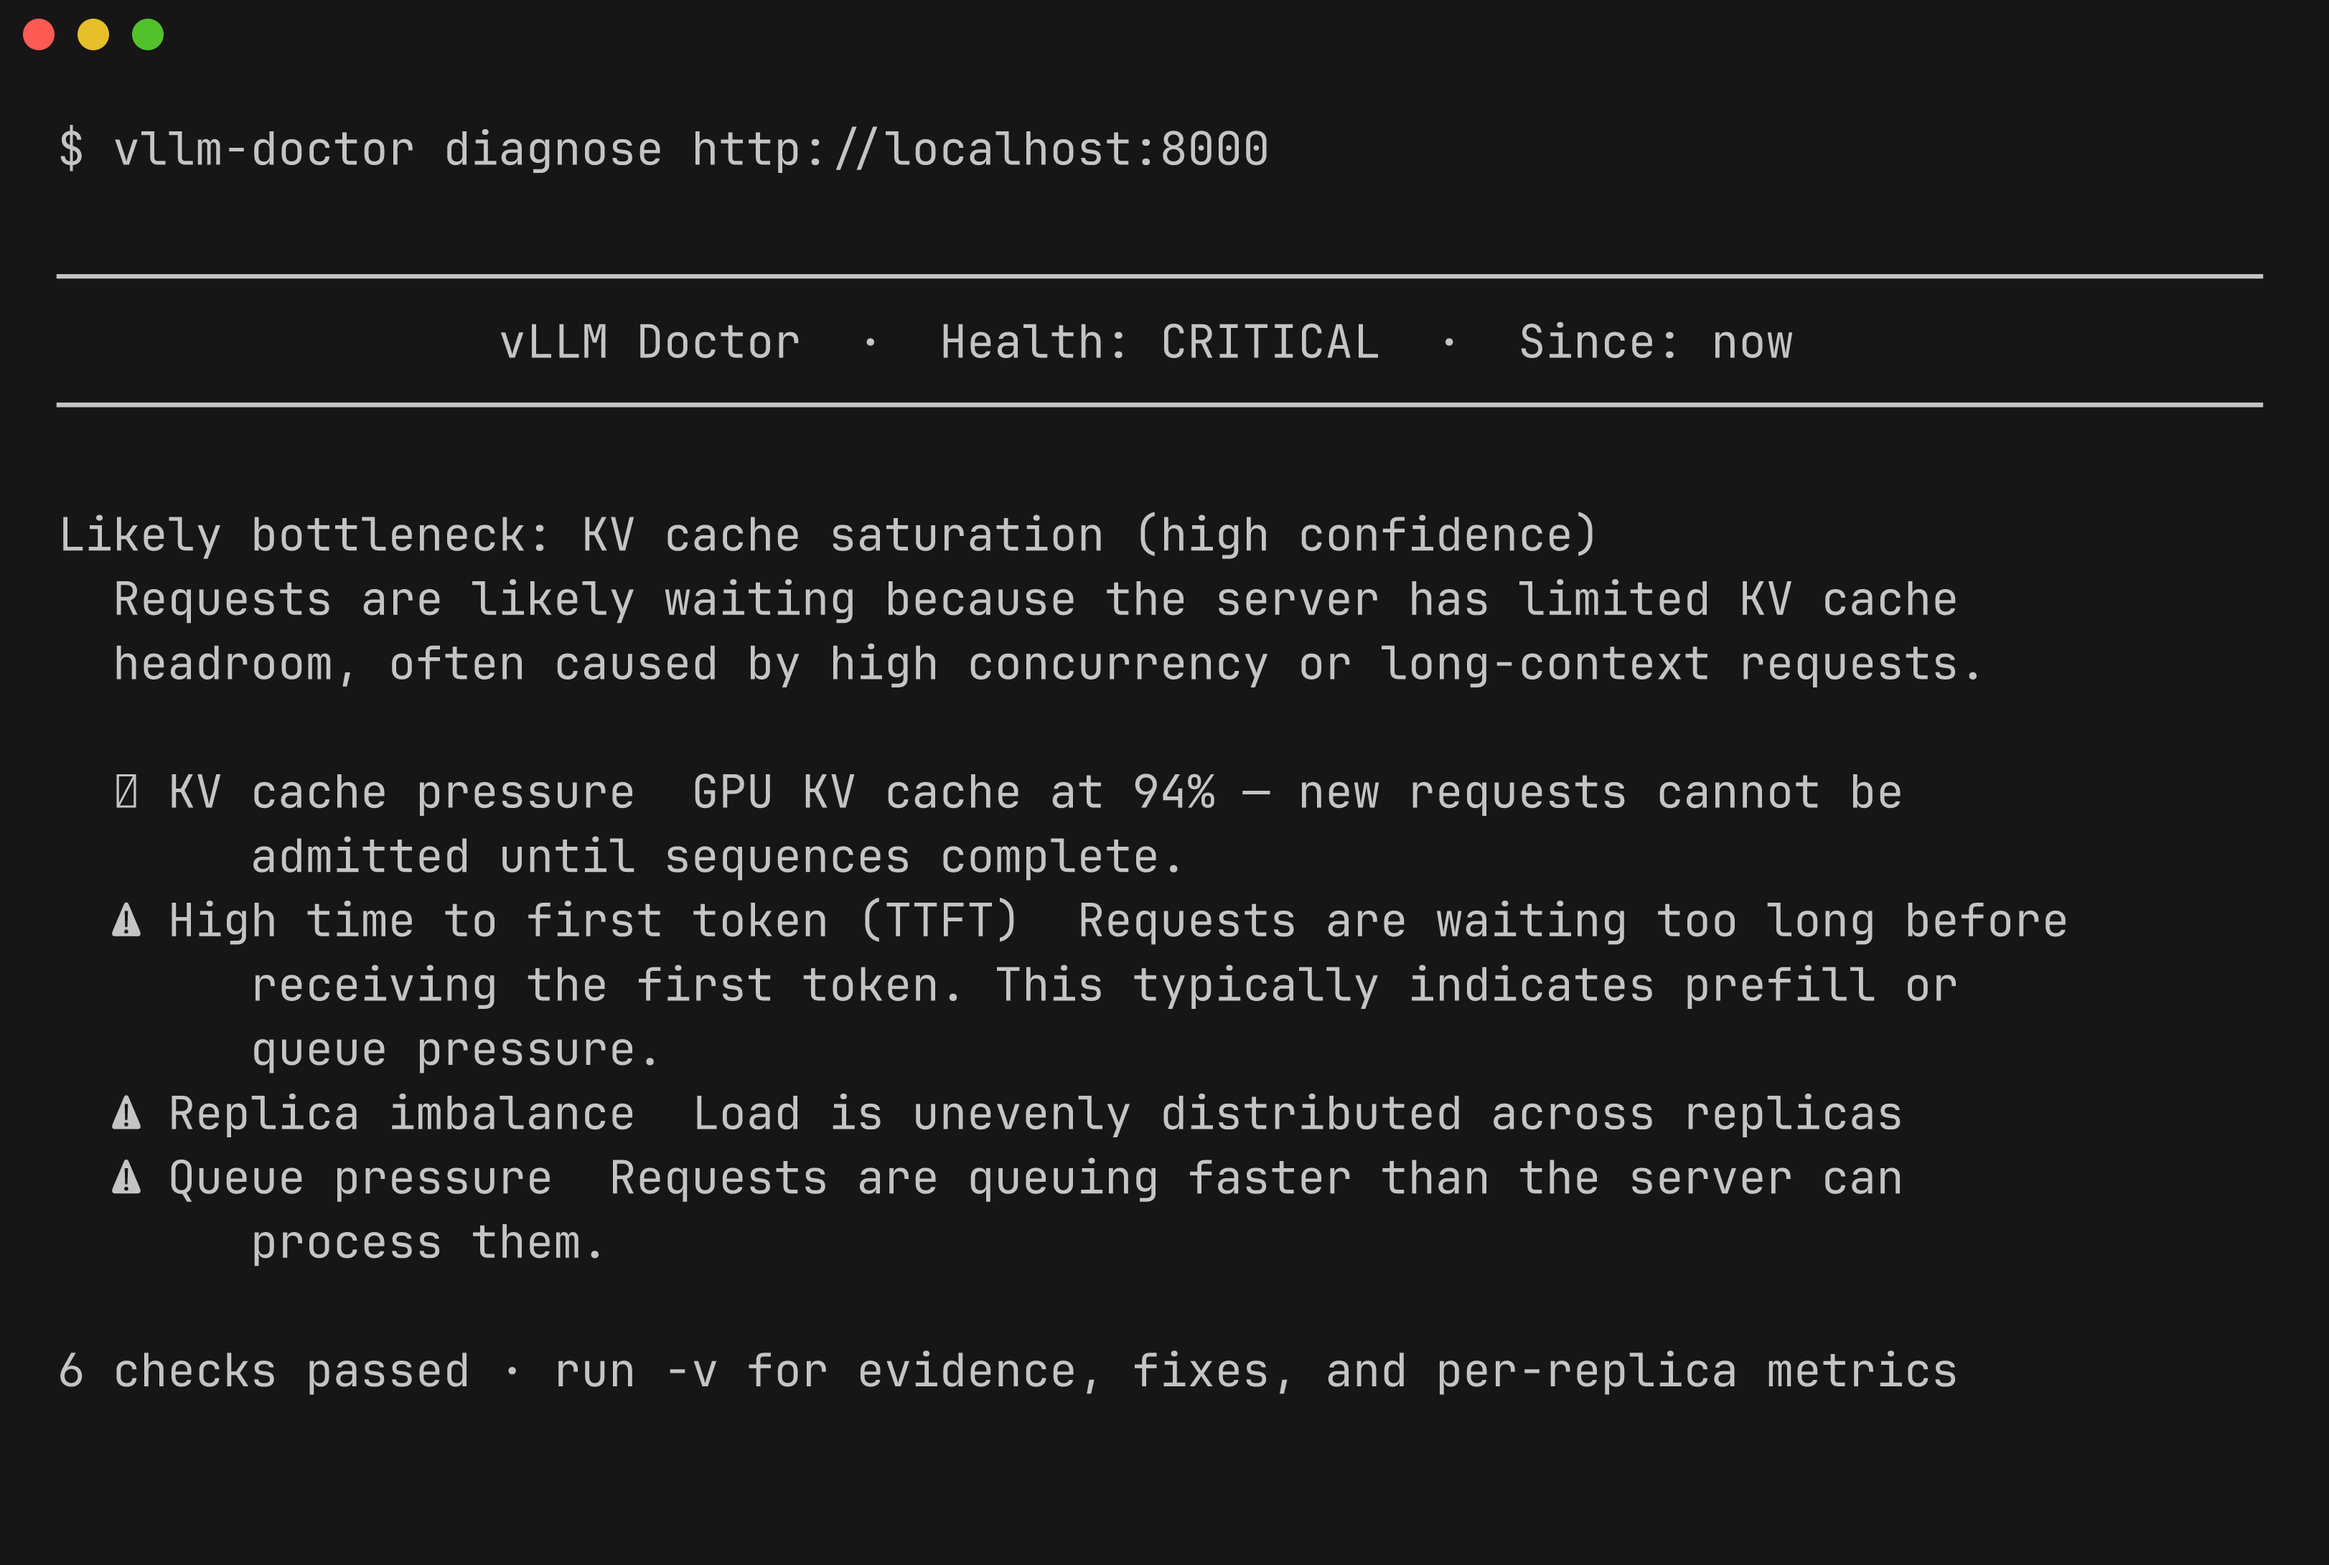
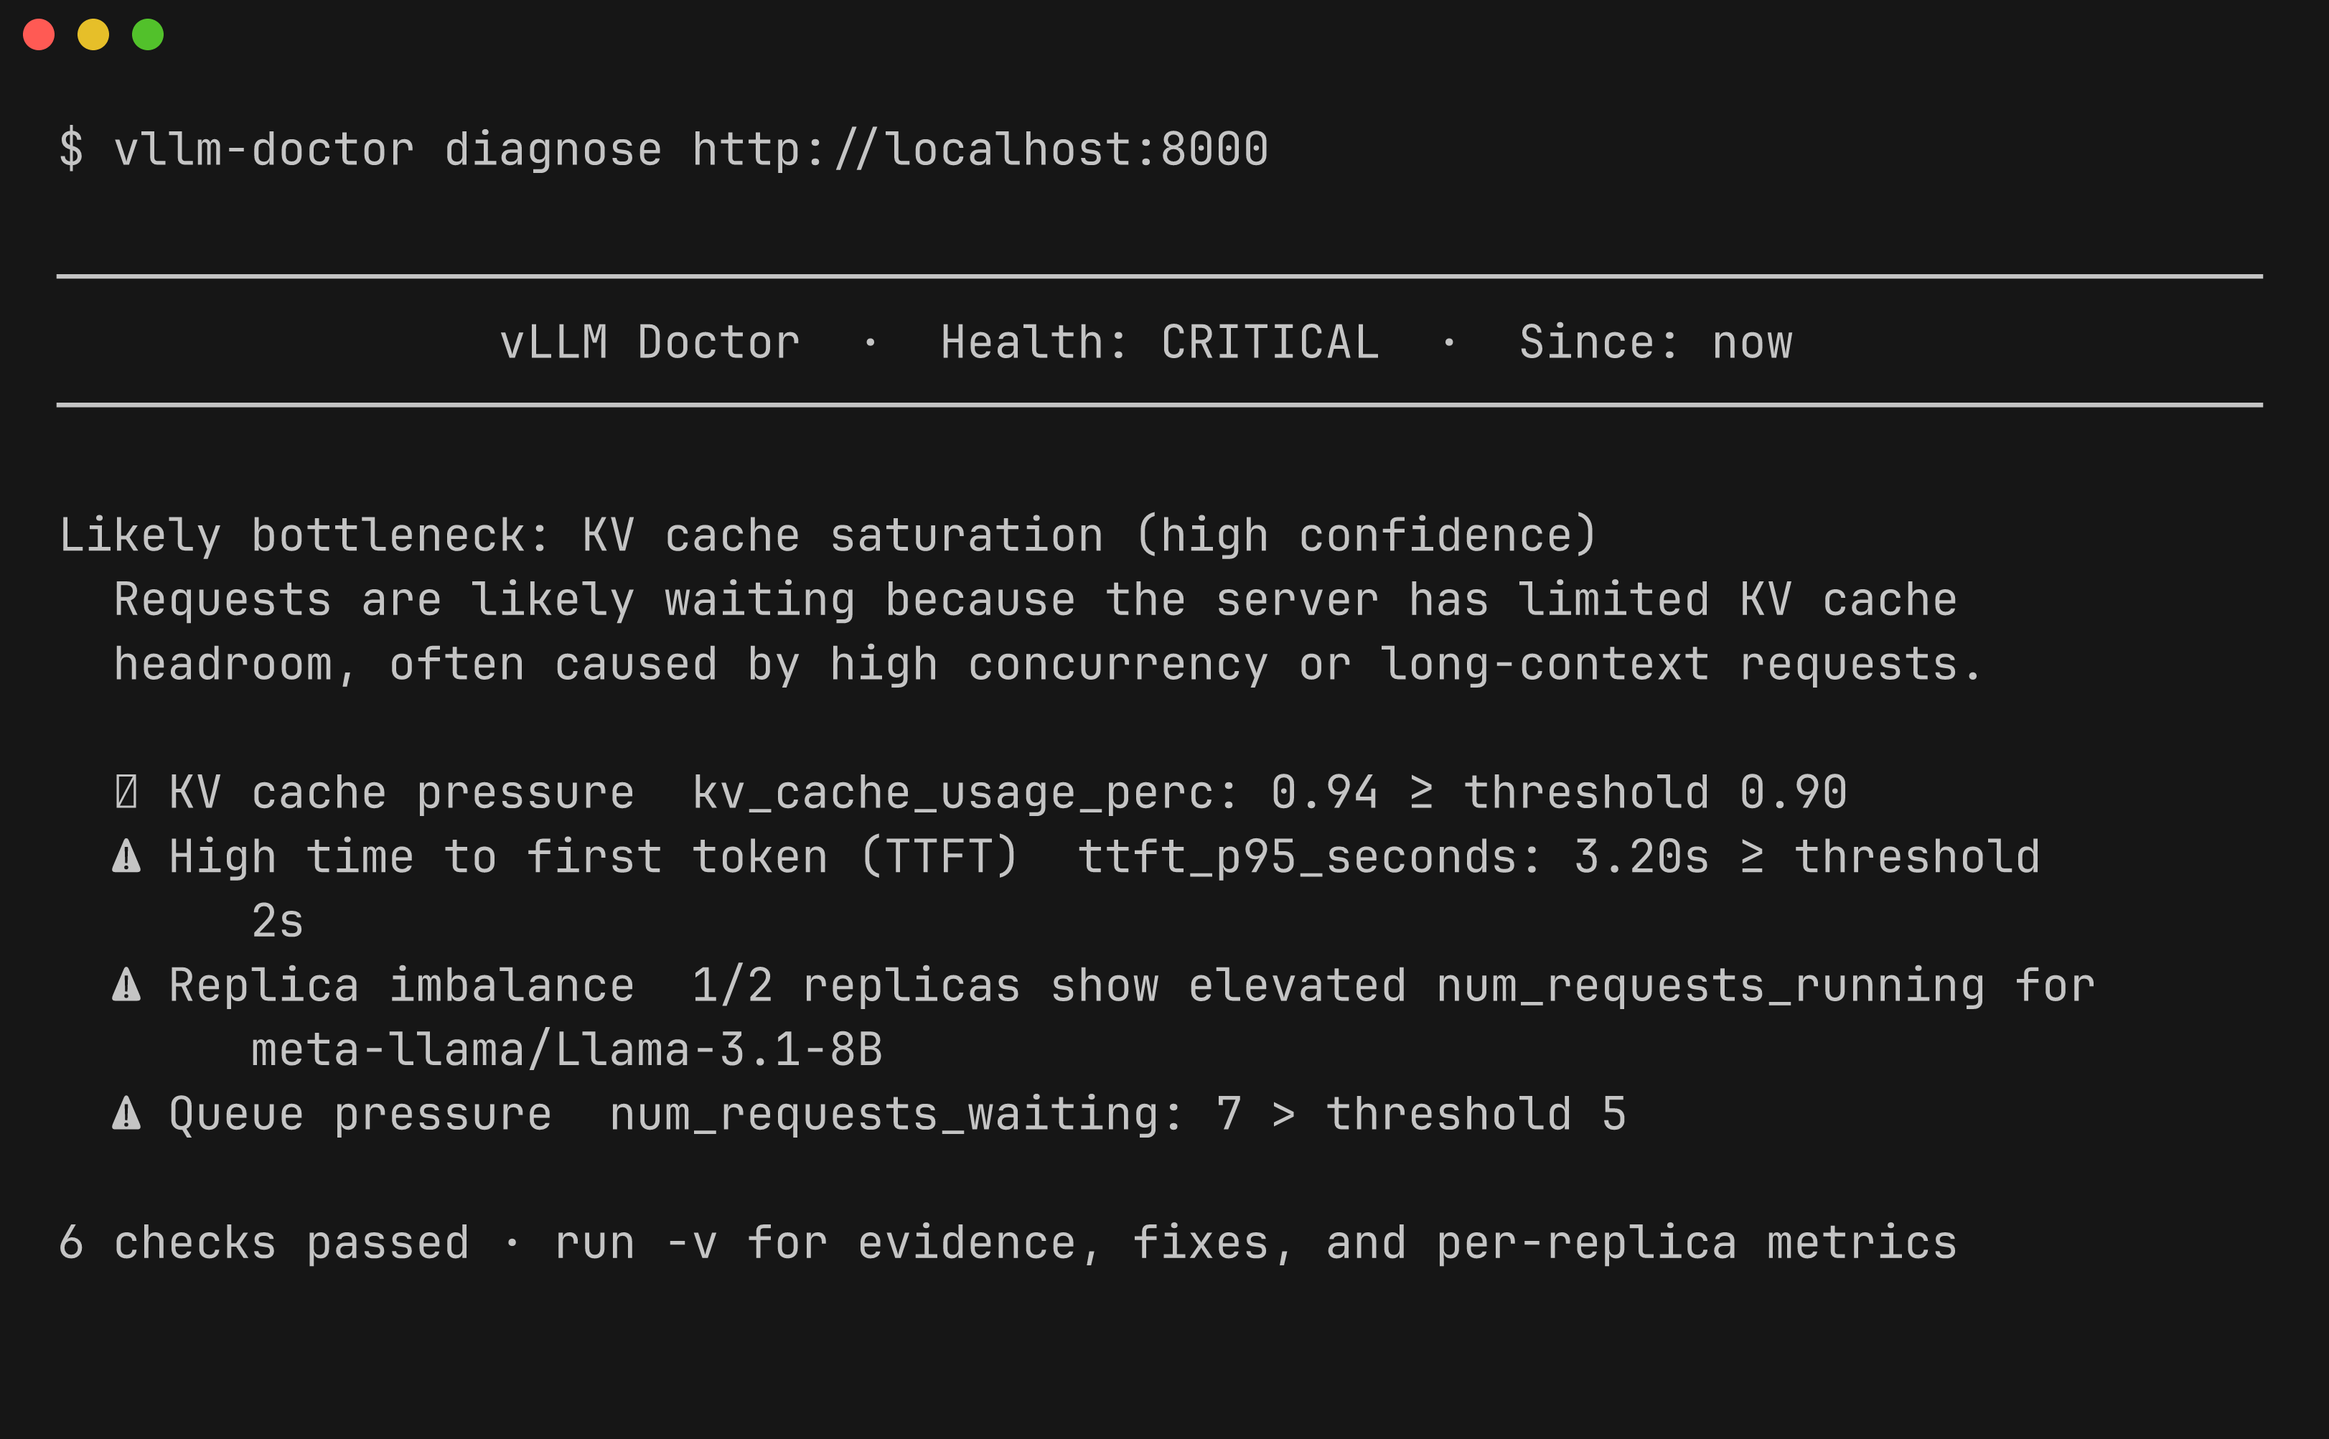
update docs

diff --git a/README.md b/README.md
@@ -102,14 +102,12 @@ Likely bottleneck: KV cache saturation (high confidence)
   Requests are likely waiting because the server has limited KV cache
   headroom, often caused by high concurrency or long-context requests.
 
-  ✖ KV cache pressure  GPU KV cache at 94% — new requests cannot be
-       admitted until sequences complete.
-  ⚠ High time to first token (TTFT)  Requests are waiting too long before
-       receiving the first token. This typically indicates prefill or
-       queue pressure.
-  ⚠ Replica imbalance  Load is unevenly distributed across replicas
-  ⚠ Queue pressure  Requests are queuing faster than the server can
-       process them.
+  ✖ KV cache pressure  kv_cache_usage_perc: 0.94 ≥ threshold 0.90
+  ⚠ High time to first token (TTFT)  ttft_p95_seconds: 3.20s ≥ threshold
+       2s
+  ⚠ Replica imbalance  1/2 replicas show elevated num_requests_running for
+       meta-llama/Llama-3.1-8B
+  ⚠ Queue pressure  num_requests_waiting: 7 > threshold 5
 
 6 checks passed · run -v for evidence, fixes, and per-replica metrics
 ```
@@ -131,8 +129,7 @@ Findings
 ╭──────────────────────────────────────────────────────────────────────────────╮
 │  ✖ KV cache pressure  [high]                                                 │
 │                                                                              │
-│  GPU KV cache usage: 94% (threshold: 90%)  ·  Waiting requests: 7 (blocked   │
-│  by full cache)                                                              │
+│  kv_cache_usage_perc: 0.94 ≥ threshold 0.90  ·  num_requests_waiting: 7      │
 │                                                                              │
 │  → Reduce max_num_seqs to limit concurrent sequences                         │
 │  → Reduce max_num_batched_tokens to cap memory per step                      │
@@ -142,7 +139,8 @@ Findings
 ╭──────────────────────────────────────────────────────────────────────────────╮
 │  ⚠ High time to first token (TTFT)  [high]                                   │
 │                                                                              │
-│  TTFT p95: 3.200s  ·  TPOT p95: 0.050s  ·  Waiting requests: 7               │
+│  ttft_p95_seconds: 3.20s ≥ threshold 2s  ·  tpot_p95_seconds: 0.05s  ·       │
+│  num_requests_waiting: 7                                                     │
 │                                                                              │
 │  → Enable or tune chunked prefill (--enable-chunked-prefill)                 │
 │  → Reduce max prompt length or filter long requests                          │
@@ -152,8 +150,10 @@ Findings
 ╭──────────────────────────────────────────────────────────────────────────────╮
 │  ⚠ Replica imbalance  [high]                                                 │
 │                                                                              │
-│  meta-llama/Llama-3.1-8B: running vllm-1=10 vs vllm-0=2; cache 94% vs 41%;   │
-│  waiting vllm-1=7 vs vllm-0=0                                                │
+│  1/2 replicas show elevated num_requests_running for meta-llama/Llama-3.1-   │
+│  8B  ·  1/2 replicas show elevated kv_cache_usage_perc for meta-             │
+│  llama/Llama-3.1-8B  ·  1/2 replicas show elevated num_requests_waiting for  │
+│  meta-llama/Llama-3.1-8B                                                     │
 │                                                                              │
 │  → Check the load balancer / service routing and session affinity settings   │
 │  → Verify readiness probes — an unready replica receives no traffic          │
@@ -163,7 +163,7 @@ Findings
 ╭──────────────────────────────────────────────────────────────────────────────╮
 │  ⚠ Queue pressure  [low]                                                     │
 │                                                                              │
-│  Waiting requests: 7 (threshold: 5)                                          │
+│  num_requests_waiting: 7 > threshold 5                                       │
 │                                                                              │
 │  → Add replicas or increase concurrency limits                               │
 │  → Inspect autoscaling thresholds                                            │

diff --git a/docs/index.md b/docs/index.md
@@ -105,8 +105,7 @@ Findings
 ╭──────────────────────────────────────────────────────────────────────────────╮
 │  ✖ KV cache pressure  [high]                                                 │
 │                                                                              │
-│  GPU KV cache usage: 94% (threshold: 90%)  ·  Waiting requests: 7 (blocked   │
-│  by full cache)                                                              │
+│  kv_cache_usage_perc: 0.94 ≥ threshold 0.90  ·  num_requests_waiting: 7      │
 │                                                                              │
 │  → Reduce max_num_seqs to limit concurrent sequences                         │
 │  → Reduce max_num_batched_tokens to cap memory per step                      │
@@ -116,7 +115,8 @@ Findings
 ╭──────────────────────────────────────────────────────────────────────────────╮
 │  ⚠ High time to first token (TTFT)  [high]                                   │
 │                                                                              │
-│  TTFT p95: 3.200s  ·  TPOT p95: 0.050s  ·  Waiting requests: 7               │
+│  ttft_p95_seconds: 3.20s ≥ threshold 2s  ·  tpot_p95_seconds: 0.05s  ·       │
+│  num_requests_waiting: 7                                                     │
 │                                                                              │
 │  → Enable or tune chunked prefill (--enable-chunked-prefill)                 │
 │  → Reduce max prompt length or filter long requests                          │
@@ -126,8 +126,10 @@ Findings
 ╭──────────────────────────────────────────────────────────────────────────────╮
 │  ⚠ Replica imbalance  [high]                                                 │
 │                                                                              │
-│  meta-llama/Llama-3.1-8B: running vllm-1=10 vs vllm-0=2; cache 94% vs 41%;   │
-│  waiting vllm-1=7 vs vllm-0=0                                                │
+│  1/2 replicas show elevated num_requests_running for meta-llama/Llama-3.1-   │
+│  8B  ·  1/2 replicas show elevated kv_cache_usage_perc for meta-             │
+│  llama/Llama-3.1-8B  ·  1/2 replicas show elevated num_requests_waiting for  │
+│  meta-llama/Llama-3.1-8B                                                     │
 │                                                                              │
 │  → Check the load balancer / service routing and session affinity settings   │
 │  → Verify readiness probes — an unready replica receives no traffic          │
@@ -137,7 +139,7 @@ Findings
 ╭──────────────────────────────────────────────────────────────────────────────╮
 │  ⚠ Queue pressure  [low]                                                     │
 │                                                                              │
-│  Waiting requests: 7 (threshold: 5)                                          │
+│  num_requests_waiting: 7 > threshold 5                                       │
 │                                                                              │
 │  → Add replicas or increase concurrency limits                               │
 │  → Inspect autoscaling thresholds                                            │
